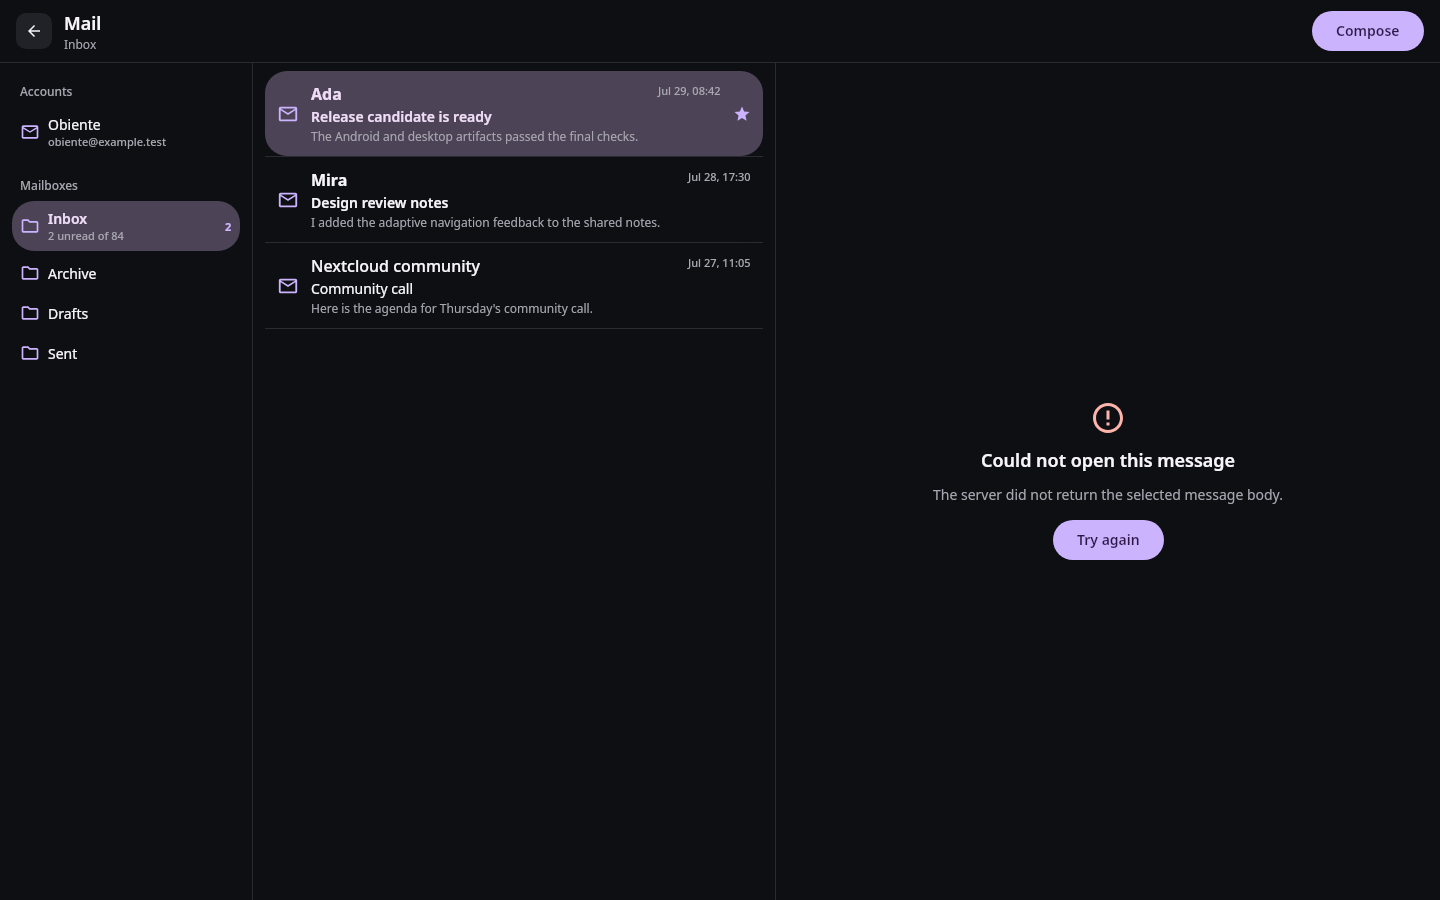
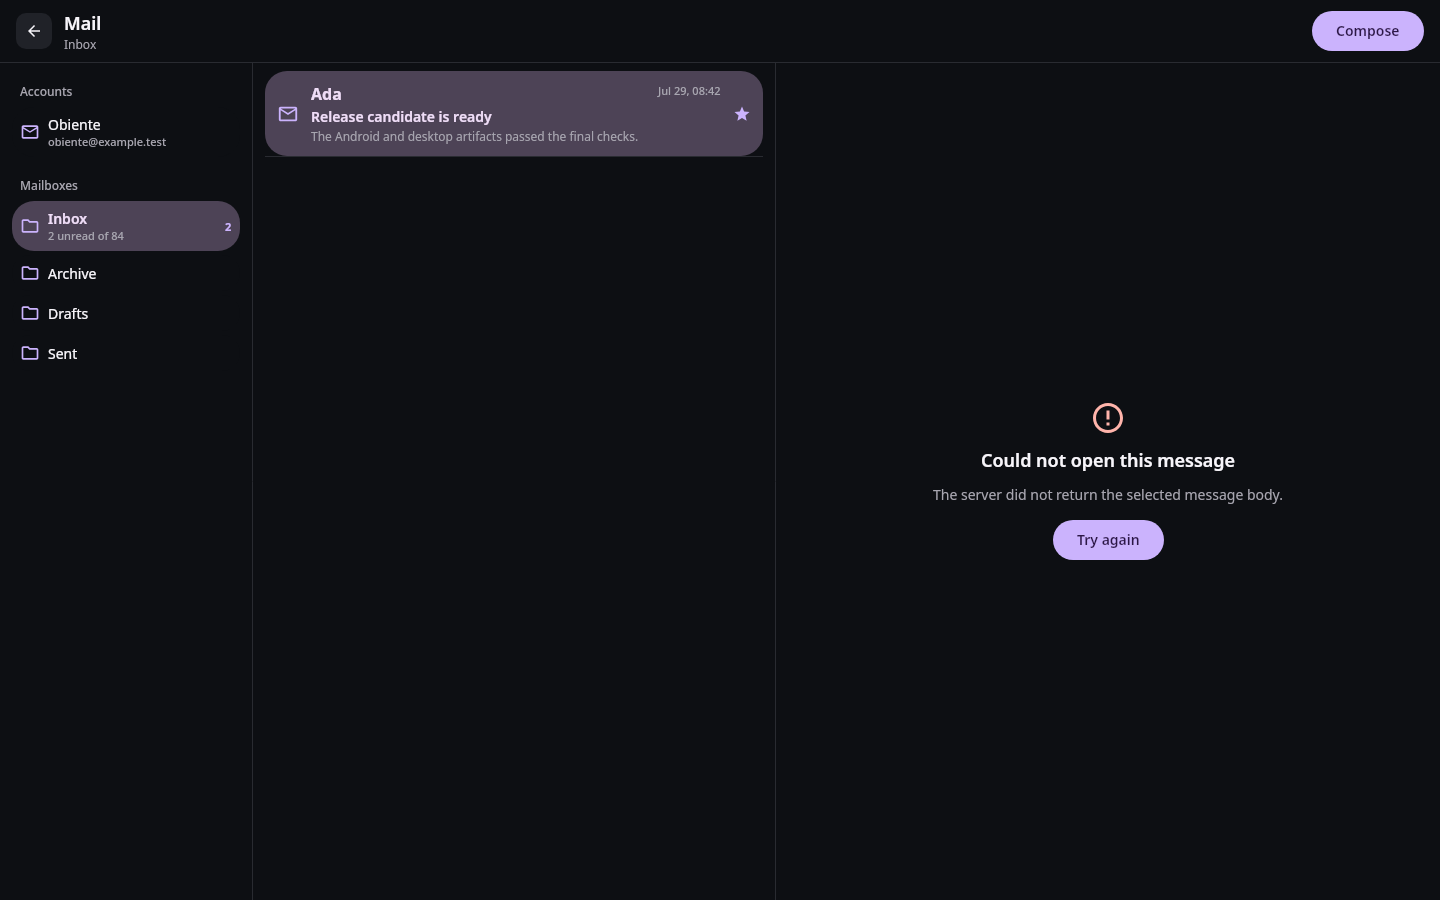
fix(mail): load complete pages and body details

Changed region(s): [[0.1875, 0.1867, 0.4062, 0.3733], [0.4688, 0.1867, 0.5, 0.2178], [0.3438, 0.2178, 0.375, 0.2489]]

diff --git a/ui/src/commonMain/kotlin/dev/obiente/nextcloudnative/app/MarketingCaptureScenarios.kt b/ui/src/commonMain/kotlin/dev/obiente/nextcloudnative/app/MarketingCaptureScenarios.kt
@@ -702,6 +702,11 @@ enum class MarketingCaptureScenario(
         "Mail", "Adaptive mailbox workspace", "Inbox message list", MarketingCapturePurpose.Showcase,
         "mobile", "phone-portrait", issue = 54, width = 1_080, height = 1_800, density = 2.625f,
     ),
+    MailMessageBodyMobile(
+        "mail-message-body-mobile", "mail-message-body-mobile.png", NextcloudPresentation.Adaptive,
+        "Mail", "Adaptive mailbox workspace", "Uncached selected message body", MarketingCapturePurpose.StateCoverage,
+        "mobile", "phone-portrait", issue = 54, width = 1_080, height = 1_800, density = 2.625f,
+    ),
     MailWorkspaceLoadingMobile(
         "mail-workspace-loading-mobile", "mail-workspace-loading-mobile.png", NextcloudPresentation.Adaptive,
         "Mail", "Adaptive mailbox workspace", "Loading inbox", MarketingCapturePurpose.StateCoverage,
@@ -2245,6 +2250,7 @@ internal fun MarketingMailWorkspaceScenario(scenario: MarketingCaptureScenario) 
         scenario in setOf(
             MarketingCaptureScenario.MailWorkspaceDesktop,
             MarketingCaptureScenario.MailWorkspaceMobile,
+            MarketingCaptureScenario.MailMessageBodyMobile,
             MarketingCaptureScenario.MailWorkspaceLoadingMobile,
             MarketingCaptureScenario.MailWorkspaceEmptyMobile,
             MarketingCaptureScenario.MailWorkspaceErrorDesktop,
@@ -2253,8 +2259,9 @@ internal fun MarketingMailWorkspaceScenario(scenario: MarketingCaptureScenario) 
         "${scenario.id} is not a Mail workspace capture."
     }
     val desktop = scenario.presentation == NextcloudPresentation.Desktop
+    val messageDetail = desktop || scenario == MarketingCaptureScenario.MailMessageBodyMobile
     val composeAction = marketingMailDescriptor.preferredNativeMailComposeAction(marketingMailSchema)
-    val currentView = if (desktop) marketingMailBodyView else marketingMailMessageView
+    val currentView = if (messageDetail) marketingMailBodyView else marketingMailMessageView
     val currentState = when (scenario) {
         MarketingCaptureScenario.MailWorkspaceLoadingMobile -> NativeScreenState.Loading
         MarketingCaptureScenario.MailWorkspaceEmptyMobile -> NativeScreenState.Ready(emptyList())
@@ -2264,7 +2271,7 @@ internal fun MarketingMailWorkspaceScenario(scenario: MarketingCaptureScenario) 
             retryLabel = "Try again",
         )
         else -> NativeScreenState.Ready(
-            if (desktop) listOf(marketingMailBodyRecord) else marketingMailMessages,
+            if (messageDetail) listOf(marketingMailBodyRecord) else marketingMailMessages,
         )
     }
     Column(modifier = Modifier.fillMaxSize()) {
@@ -2288,17 +2295,20 @@ internal fun MarketingMailWorkspaceScenario(scenario: MarketingCaptureScenario) 
             actionExecutor = NativeActionExecutor {
                 NativeActionExecutionResult.Failure("This synthetic fixture is read-only.")
             },
-            selectedRecordId = if (desktop) marketingMailSelectedMessage.id else null,
-            selectedRecordResourceId = if (desktop) "messages" else null,
-            showSelectedRecordDetail = desktop,
+            selectedRecordId = if (messageDetail) marketingMailSelectedMessage.id else null,
+            selectedRecordResourceId = if (messageDetail) "messages" else null,
+            showSelectedRecordDetail = messageDetail,
             onSelectRecord = {},
             datasetContext = NativeDatasetContext(
-                parentResourceId = if (desktop) "messages" else "mailboxes",
-                parentRecord = if (desktop) marketingMailSelectedMessage else marketingMailInbox,
+                parentResourceId = if (messageDetail) "messages" else "mailboxes",
+                parentRecord = if (messageDetail) marketingMailSelectedMessage else marketingMailInbox,
                 relatedRecords = mapOf(
                     "accounts" to listOf(marketingMailAccount),
                     "mailboxes" to marketingMailboxes,
-                    "messages" to marketingMailMessages,
+                    // The desktop fixture intentionally renders a selected body after the
+                    // envelope collection has been evicted. This keeps visual QA aligned with
+                    // direct/deep-linked detail behavior instead of relying on a warm list cache.
+                    "messages" to if (messageDetail) emptyList() else marketingMailMessages,
                     "mailboxStats" to listOf(marketingMailInboxStats),
                 ),
             ),

diff --git a/ui/src/commonMain/kotlin/dev/obiente/nextcloudnative/app/DynamicNativeRuntime.kt b/ui/src/commonMain/kotlin/dev/obiente/nextcloudnative/app/DynamicNativeRuntime.kt
@@ -836,7 +836,18 @@ internal suspend fun executeDynamicReadWithFallback(
     require(preferred.binding.method == HttpMethod.GET && !preferred.fallbackOnly) {
         "Only declared preferred GET actions can load a dynamic view."
     }
-    val candidates = listOf(preferred) + preferred.fallbackActionIds.mapNotNull(actionsById::get)
+    val linkedFallbacks = preferred.fallbackActionIds.mapNotNull(actionsById::get)
+    val resolvedPagination = descriptor.resolvedDynamicPaginationSpec(preferred.id)
+    val pagedFallbacks = if (preferred.dynamicPaginationSpec() == null && resolvedPagination != null) {
+        linkedFallbacks.filter { candidate -> candidate.dynamicPaginationSpec() == resolvedPagination }
+    } else {
+        emptyList()
+    }
+    // A successful collection response is not necessarily a complete first page. Some app
+    // OpenAPI documents omit optional pagination parameters even though a linked route from the
+    // same verified package declares them. In that case use the verified paged route first; the
+    // documented operation remains the fallback if that fuller read is unavailable.
+    val candidates = pagedFallbacks + preferred + linkedFallbacks.filterNot(pagedFallbacks::contains)
     var bestFailure: Throwable? = null
     var bestFailureSpecificity = -1
     var successfulEmptyResult: List<NativeRecord>? = null
@@ -1397,6 +1408,23 @@ internal fun DynamicAction.dynamicPaginationSpec(): DynamicPaginationSpec? {
     return DynamicPaginationSpec(pagingParameter.name, mode, pageSize, cursorFields)
 }
 
+/**
+ * Resolves pagination from the visible read or from one unambiguous verified read fallback.
+ * Hidden fallbacks are part of the same acquired contract and can carry optional cursor/limit
+ * parameters omitted by a sparse documented operation. Conflicting fallback declarations remain
+ * unpaged rather than guessing a protocol.
+ */
+internal fun DynamicAppDescriptor.resolvedDynamicPaginationSpec(actionId: String): DynamicPaginationSpec? {
+    val action = actions.singleOrNull { candidate -> candidate.id == actionId } ?: return null
+    action.dynamicPaginationSpec()?.let { return it }
+    return action.fallbackActionIds
+        .mapNotNull { fallbackId -> actions.singleOrNull { candidate -> candidate.id == fallbackId } }
+        .filter(DynamicAction::fallbackOnly)
+        .mapNotNull(DynamicAction::dynamicPaginationSpec)
+        .distinct()
+        .singleOrNull()
+}
+
 private fun HttpParameter.isIntegerNumberParameter(): Boolean {
     val type = (schema as? JsonObject)?.get("type")?.let { it as? JsonPrimitive }?.contentOrNull
     return type == "integer" || type == "number"
@@ -1416,6 +1444,9 @@ private fun HttpParameter.automaticCollectionPageSize(): Int? {
 
     fun declaredNumber(name: String): Double? {
         val element = objectSchema[name] ?: return null
+        // OpenAPI generators commonly serialize an optional nullable numeric default as JSON
+        // null. That is the absence of a default, not a malformed numeric constraint.
+        if (element == JsonNull) return null
         val primitive = element as? JsonPrimitive ?: return Double.NaN
         return primitive
             .takeUnless { it.isString }
@@ -1435,7 +1466,7 @@ private fun HttpParameter.automaticCollectionPageSize(): Int? {
     )
     if (lowerBound > upperBound) return null
 
-    if ("default" in objectSchema) {
+    if (objectSchema["default"]?.let { it != JsonNull } == true) {
         val declaredDefault = declaredNumber("default")
             ?.takeUnless { it.isNaN() }
             ?: return null

diff --git a/ui/src/commonTest/kotlin/dev/obiente/nextcloudnative/app/DynamicNativeRuntimeTest.kt b/ui/src/commonTest/kotlin/dev/obiente/nextcloudnative/app/DynamicNativeRuntimeTest.kt
@@ -638,6 +638,11 @@ class DynamicNativeRuntimeTest {
                 expected = "12",
             ),
             Case(
+                name = "limit",
+                schema = """{"type":"integer","format":"int64","nullable":true,"default":null}""",
+                expected = "50",
+            ),
+            Case(
                 name = "pageSize",
                 schema = """{"type":"integer","maximum":20}""",
                 expected = "20",
@@ -2381,6 +2386,59 @@ class DynamicNativeRuntimeTest {
         )
         assertEquals(listOf(preferred.id), populated.first)
         assertEquals("primary-1", populated.second.single().id)
+    }
+
+    @Test
+    fun `verified paged fallback prevents a sparse primary route from loading one row`() = runBlocking {
+        fun integerParameter(name: String, required: Boolean = false) = HttpParameter(
+            name = name,
+            required = required,
+            schema = json.parseToJsonElement("""{"type":"integer"}"""),
+            source = ParameterSource.userInput,
+        )
+        val fallback = readAction().copy(
+            id = "messages.list.verified",
+            binding = readAction().binding.copy(
+                path = "/ocs/v2.php/apps/example/api/messages",
+                queryParameters = listOf(
+                    integerParameter("mailboxId", required = true),
+                    integerParameter("cursor"),
+                    integerParameter("limit"),
+                ),
+            ),
+            fallbackOnly = true,
+        )
+        val preferred = readAction().copy(
+            id = "messages.list",
+            binding = readAction().binding.copy(
+                path = "/ocs/v2.php/apps/example/api/mailboxes/{id}/messages",
+                pathParameters = listOf(integerParameter("id", required = true)),
+            ),
+            fallbackActionIds = listOf(fallback.id),
+        )
+        val descriptor = descriptor(preferred).copy(actions = listOf(preferred, fallback))
+        val attempts = mutableListOf<String>()
+
+        val records = executeDynamicReadWithFallback(descriptor, preferred.id) { candidate ->
+            attempts += candidate.id
+            val values = remapReadFallbackValues(
+                preferred = preferred,
+                candidate = candidate,
+                values = mapOf("id" to "9"),
+            )
+            val request = buildDynamicApiRequest(descriptor, candidate, values)
+            assertEquals("50", request.queryParameters["limit"])
+            assertEquals("9", request.queryParameters["mailboxId"])
+            response(
+                """{"ocs":{"meta":{"status":"ok","statuscode":100},"data":[{"databaseId":"42","subject":"First"},{"databaseId":"41","subject":"Second"}]}}""",
+            )
+        }
+
+        assertEquals(listOf(fallback.id), attempts)
+        assertEquals(listOf("42", "41"), records.map(NativeRecord::id))
+        val pagination = requireNotNull(descriptor.resolvedDynamicPaginationSpec(preferred.id))
+        assertEquals(DynamicPaginationMode.RecordCursor, pagination.mode)
+        assertEquals(50, pagination.expectedPageSize)
     }
 
     @Test

diff --git a/ui/src/commonTest/kotlin/dev/obiente/nextcloudnative/nativeui/runtime/NativeMailWorkspaceTest.kt b/ui/src/commonTest/kotlin/dev/obiente/nextcloudnative/nativeui/runtime/NativeMailWorkspaceTest.kt
@@ -501,7 +501,7 @@ class NativeMailWorkspaceTest {
         val context = NativeDatasetContext(
             parentResourceId = "messages",
             parentRecord = parentMessage,
-            relatedRecords = mapOf("messages" to listOf(parentMessage)),
+            relatedRecords = emptyMap(),
         )
         val plan = nativeMailWorkspacePlan(
             schema = schema,
@@ -526,6 +526,51 @@ class NativeMailWorkspaceTest {
         )
         assertEquals("42", detail?.record?.id)
         assertEquals("<p>The build is ready.</p>", detail?.presentation?.body)
+    }
+
+    @Test
+    fun `message detail does not require its envelope to remain in a related list cache`() {
+        val messages = resource("messages", "Messages")
+        val body = resource("body", "Message body")
+        val schema = schema(messages, body)
+        val parentMessage = NativeRecord(
+            id = "42",
+            values = mapOf(
+                "subject" to "Release checklist",
+                "from" to "Ada <ada@example.test>",
+                "mailboxId" to "9",
+            ),
+        )
+        val bodyRecord = NativeRecord(
+            id = "body-42",
+            values = mapOf("body" to "The build is ready."),
+        )
+        val context = NativeDatasetContext(
+            parentResourceId = messages.id,
+            parentRecord = parentMessage,
+            relatedRecords = emptyMap(),
+        )
+
+        val plan = nativeMailWorkspacePlan(
+            schema = schema,
+            currentResource = body,
+            currentRecords = listOf(bodyRecord),
+            context = context,
+            selectedRecordId = bodyRecord.id,
+            selectedRecordResourceId = body.id,
+        )
+        val detail = nativeMailWorkspaceDetailTarget(
+            schema = schema,
+            currentResource = body,
+            currentRecords = listOf(bodyRecord),
+            context = context,
+            selectedMessage = plan.selectedMessage,
+        )
+
+        assertTrue(plan.hasMailData)
+        assertEquals(listOf("42"), plan.messages.map { item -> item.record.id })
+        assertEquals("42", plan.selectedMessage?.record?.id)
+        assertEquals("The build is ready.", detail?.presentation?.body)
     }
 
     @Test

diff --git a/ui/src/commonMain/kotlin/dev/obiente/nextcloudnative/nativeui/runtime/NativeMailWorkspace.kt b/ui/src/commonMain/kotlin/dev/obiente/nextcloudnative/nativeui/runtime/NativeMailWorkspace.kt
@@ -176,13 +176,41 @@ internal fun nativeMailWorkspacePlan(
         .filter { item -> item.presentation.kind == NativeMailboxItemKind.Folder }
         .minOfOrNull { item -> item.hierarchyDepth }
         ?: 0
-    val items = rawItems.map { item ->
+    val normalizedItems = rawItems.map { item ->
         if (item.presentation.kind == NativeMailboxItemKind.Folder) {
             item.copy(hierarchyDepth = (item.hierarchyDepth - minimumFolderDepth).coerceAtLeast(0))
         } else {
             item
         }
     }
+    // A detail response is a facet of the selected envelope, not a replacement mailbox
+    // collection. The envelope may no longer be present in relatedRecords after process restore,
+    // cache eviction, or a direct deep link. Preserve that proven parent as a workspace item so
+    // detail rendering does not depend on an incidental list-cache hit.
+    val parentMessageItem = context.parentRecord?.let { parent ->
+        context.parentResourceId
+            ?.let(schema::resource)
+            ?.let { parentResource ->
+                val presentation = nativeMailboxPresentation(parentResource, parent)
+                if (presentation.kind != NativeMailboxItemKind.Message) {
+                    null
+                } else {
+                    NativeMailWorkspaceItem(
+                        resource = parentResource,
+                        record = parent.withNativeResource(parentResource.id, currentResource.id),
+                        presentation = presentation,
+                    )
+                }
+            }
+    }
+    val items = parentMessageItem
+        ?.takeIf { parent ->
+            normalizedItems.none { item ->
+                item.nativeMailWorkspaceRecordKey() == parent.nativeMailWorkspaceRecordKey()
+            }
+        }
+        ?.let { parent -> normalizedItems + parent }
+        ?: normalizedItems
     val currentKeys = currentRecords.mapNotNullTo(hashSetOf()) { record ->
         nativeMailboxPresentation(currentResource, record)
             .takeIf { presentation -> presentation.kind != NativeMailboxItemKind.Unknown }

diff --git a/ui/src/commonMain/kotlin/dev/obiente/nextcloudnative/app/NextcloudNativeApp.kt b/ui/src/commonMain/kotlin/dev/obiente/nextcloudnative/app/NextcloudNativeApp.kt
@@ -779,7 +779,7 @@ private suspend fun loadInitialDynamicFormRelationRecords(
             runtimeContext = boundValues,
             cachePolicy = cachePolicy,
         ),
-        pagination = action.dynamicPaginationSpec(),
+        pagination = descriptor.resolvedDynamicPaginationSpec(action.id),
     )
 }
 
@@ -1199,6 +1199,7 @@ fun NextcloudNativeMarketingCapture(
                     -> MarketingCalendarWorkspaceScenario(scenario, assets)
                     MarketingCaptureScenario.MailWorkspaceDesktop,
                     MarketingCaptureScenario.MailWorkspaceMobile,
+                    MarketingCaptureScenario.MailMessageBodyMobile,
                     MarketingCaptureScenario.MailWorkspaceLoadingMobile,
                     MarketingCaptureScenario.MailWorkspaceEmptyMobile,
                     MarketingCaptureScenario.MailWorkspaceErrorDesktop,
@@ -3269,8 +3270,7 @@ private fun DynamicDiscoveredAppScreen(
             recordsByResourceId = freshSnapshot.relatedRecords
             viewState = NativeScreenState.Ready(freshSnapshot.records)
             paginationState = freshSnapshot.pagination?.let { checkpoint ->
-                descriptor.actions.firstOrNull { action -> action.id == view.sourceActionId }
-                    ?.dynamicPaginationSpec()
+                descriptor.resolvedDynamicPaginationSpec(view.sourceActionId)
                     ?.let { spec ->
                         DynamicPaginationState(
                             viewId = view.id,
@@ -3362,8 +3362,7 @@ private fun DynamicDiscoveredAppScreen(
             records
         }.onSuccess { records ->
             val updatedRecords = recordsByResourceId + (view.resourceId to records)
-            val nextPagination = descriptor.actions.firstOrNull { action -> action.id == view.sourceActionId }
-                ?.dynamicPaginationSpec()
+            val nextPagination = descriptor.resolvedDynamicPaginationSpec(view.sourceActionId)
                 ?.toDynamicPaginationState(view.id, records)
             recordsByResourceId = updatedRecords
             viewState = NativeScreenState.Ready(records)

diff --git a/changes/unreleased/mail-inbox-read-flow.md b/changes/unreleased/mail-inbox-read-flow.md
@@ -1,5 +1,5 @@
 category: fix
-issue: none
+issue: 54
 pull: none
 platforms: android, desktop
 user-facing: yes

diff --git a/changes/unreleased/mail-workspace-pagination.md b/changes/unreleased/mail-workspace-pagination.md
@@ -1,5 +1,5 @@
 category: fix
-issue: none
+issue: 54
 pull: none
 platforms: android, desktop
 user-facing: yes
